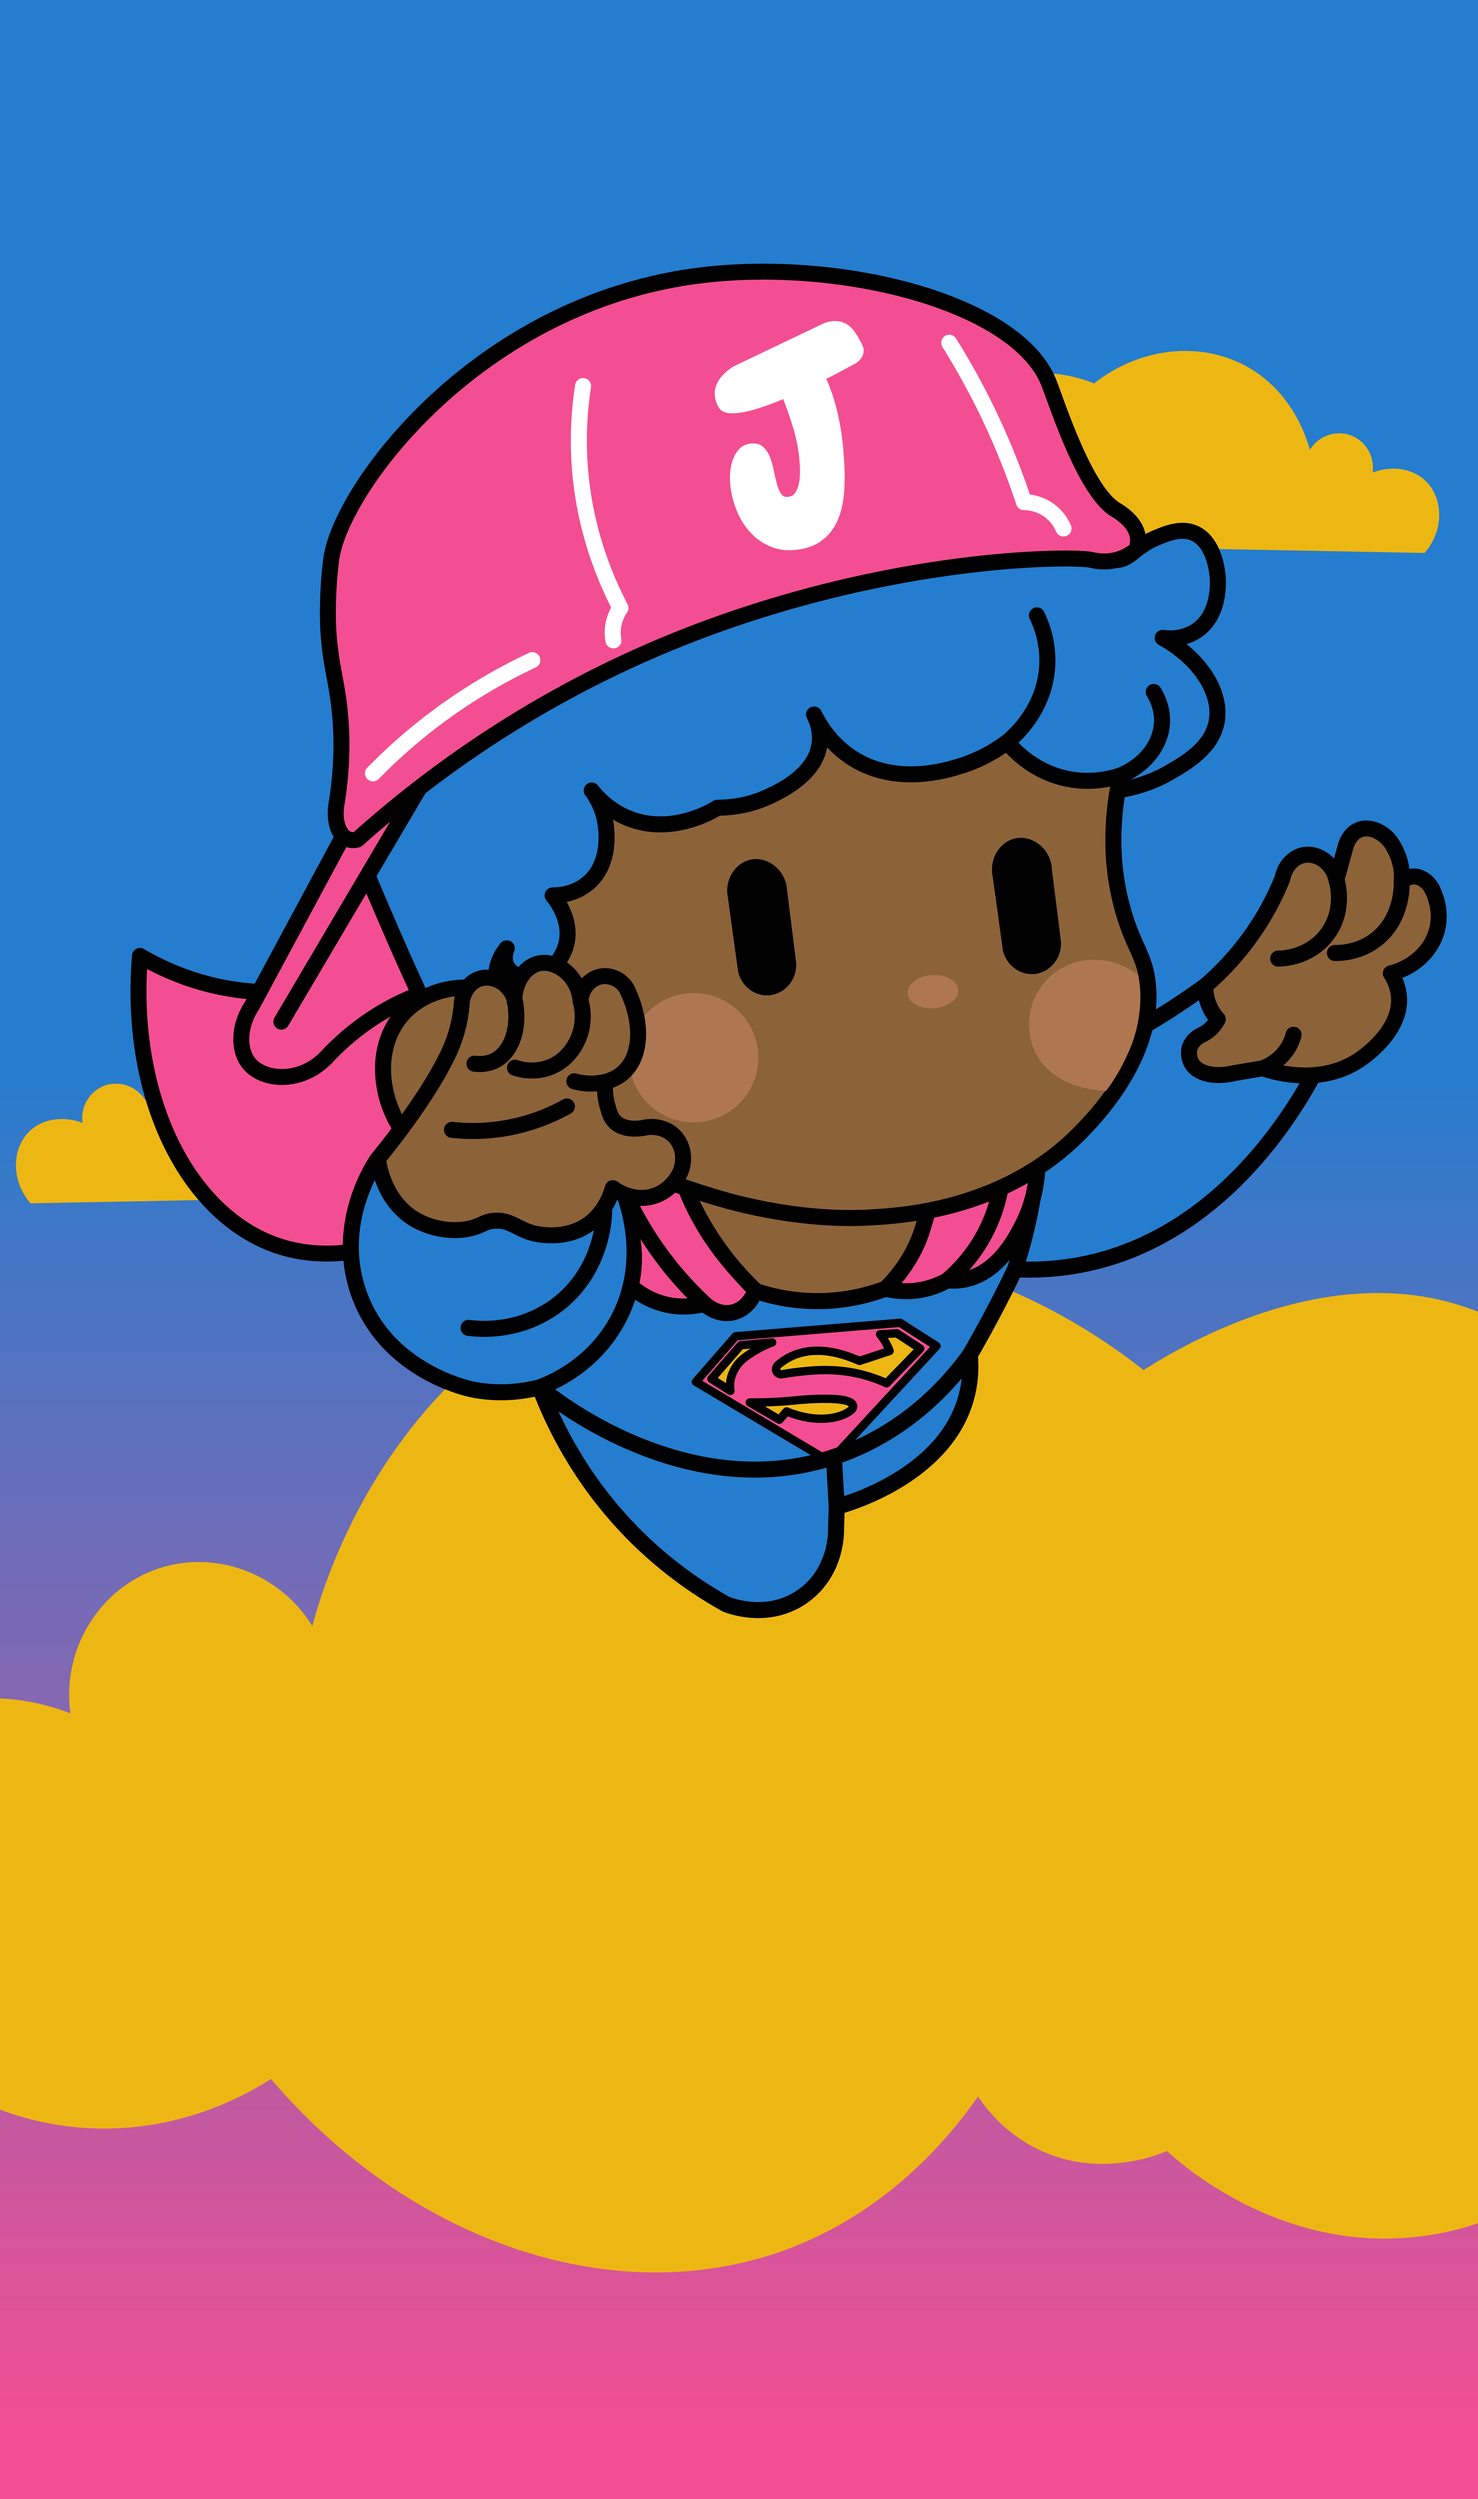
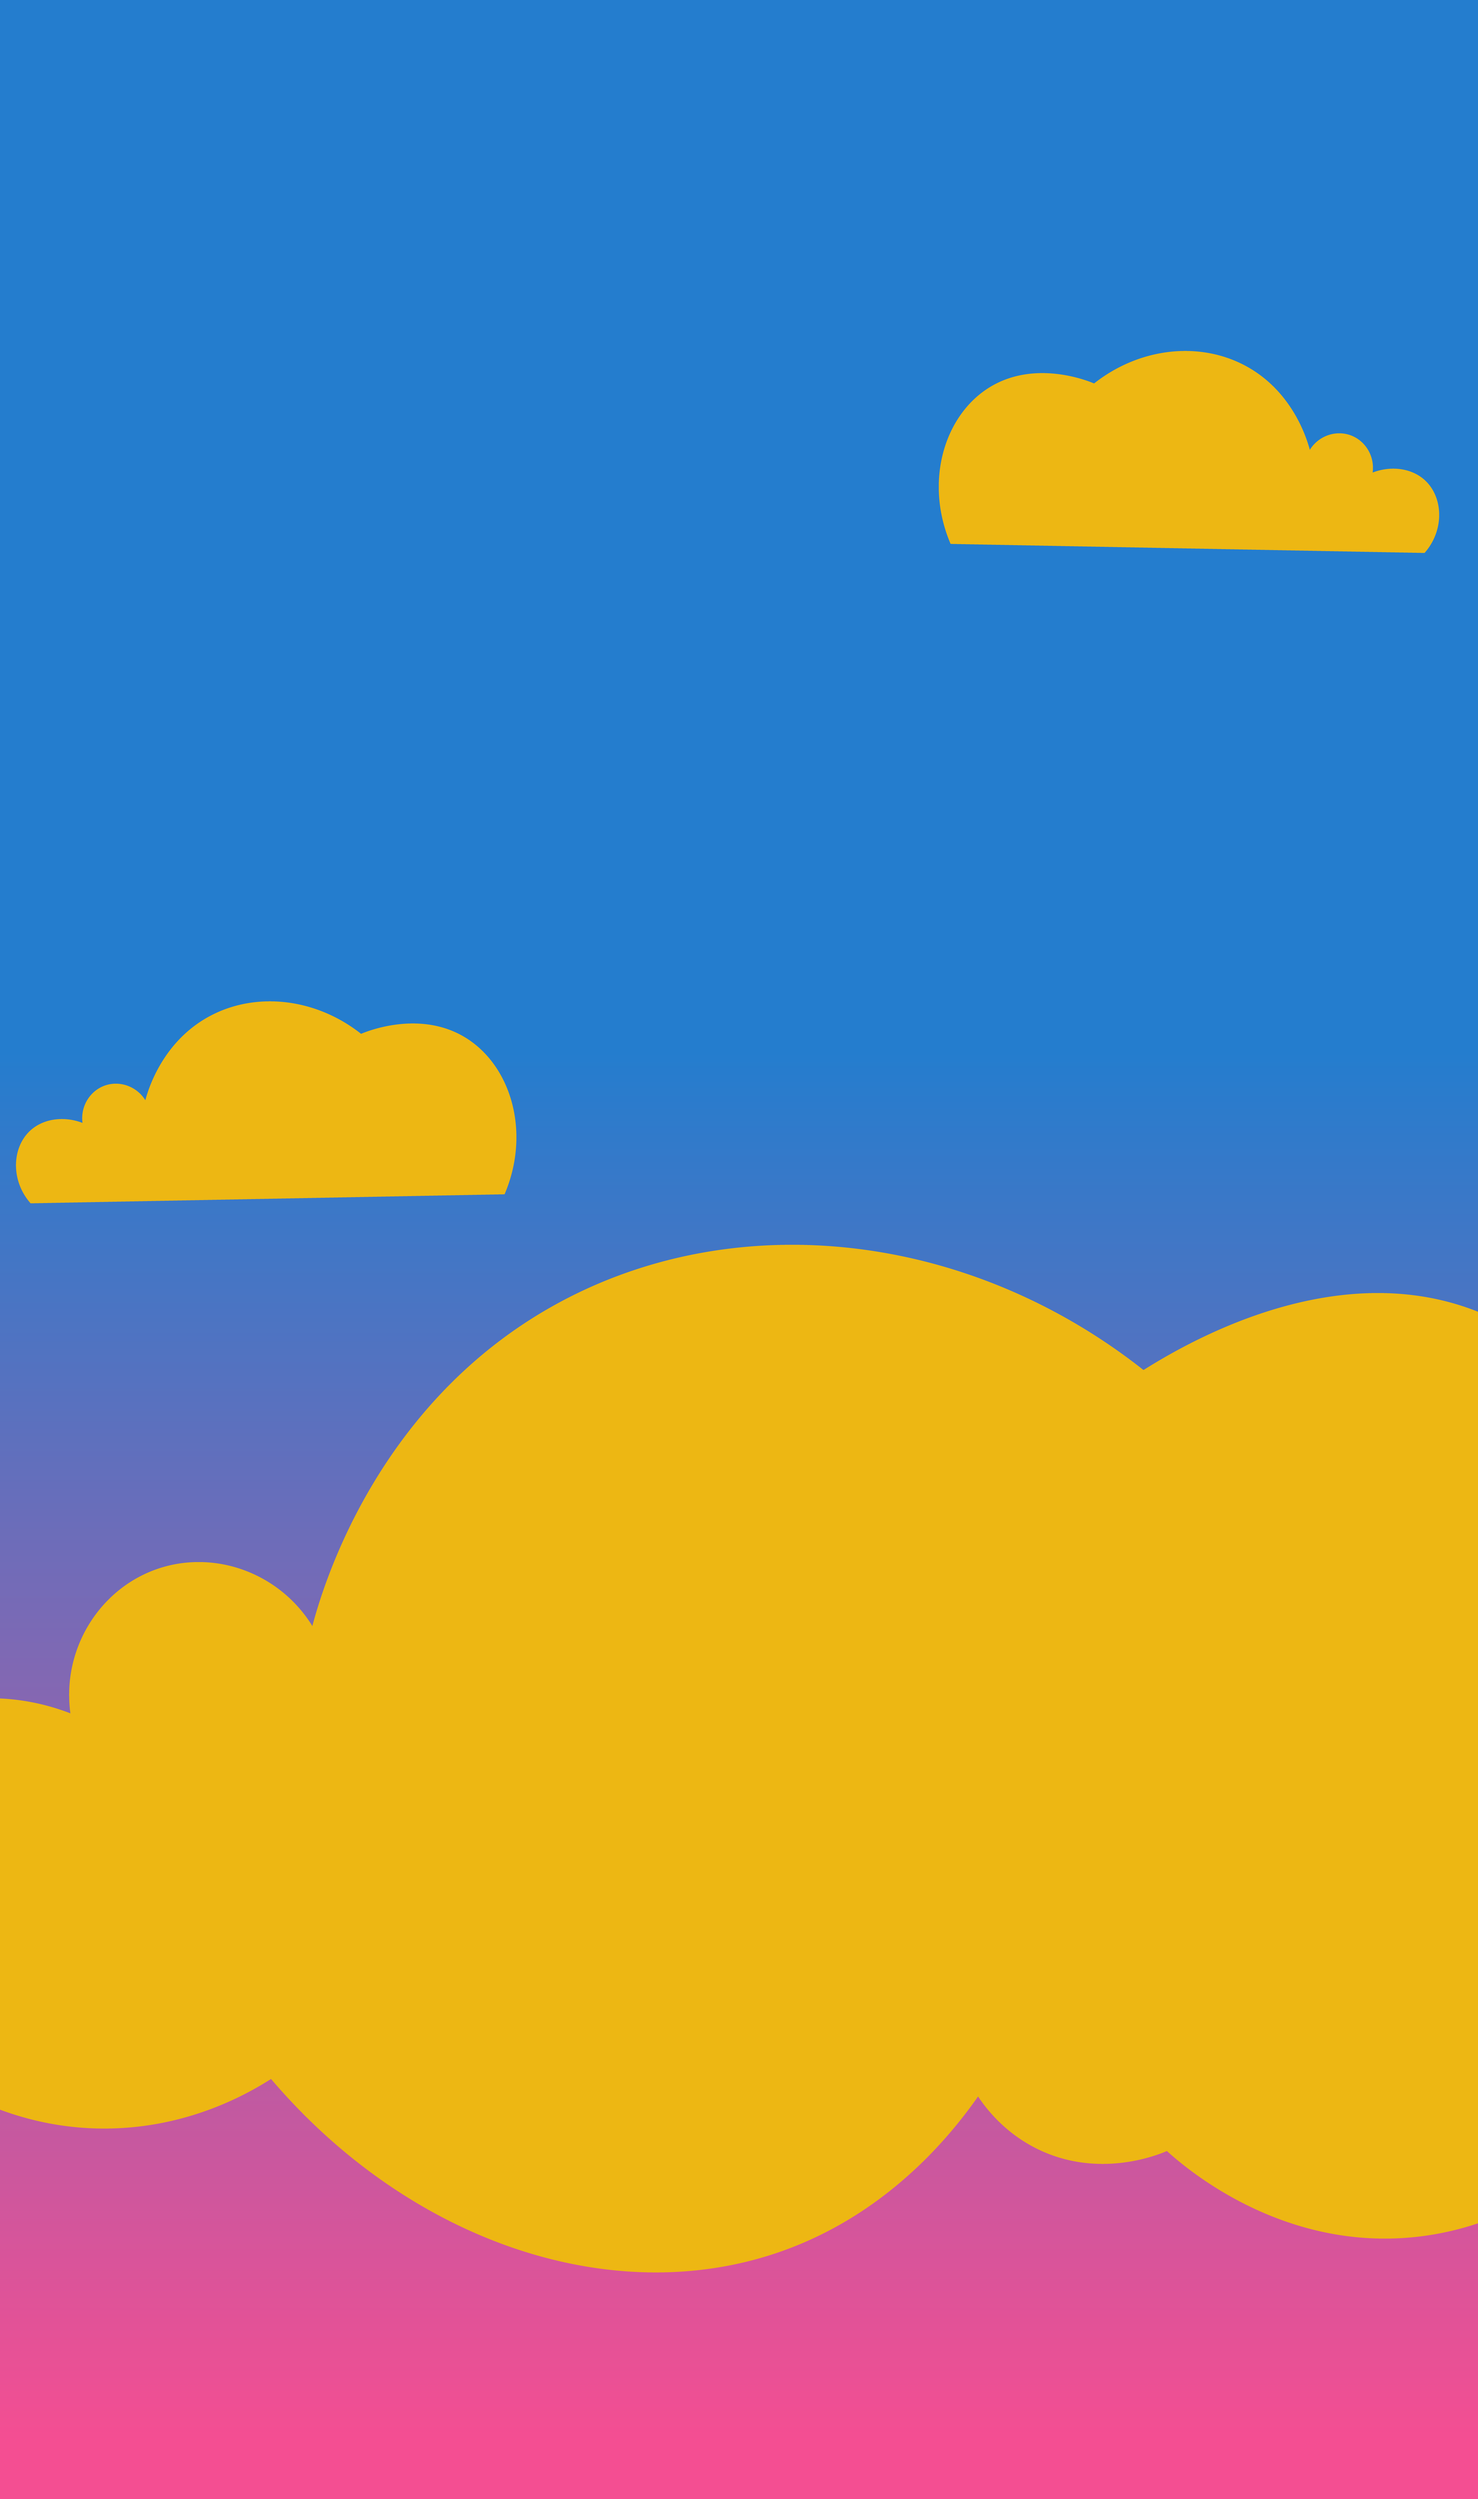
voa fia

Changed region(s): [[0.0622, 0.0937, 0.9951, 0.6556]]

diff --git a/script/script-pt.js b/script/script-pt.js
@@ -36,6 +36,13 @@ function displayQuestion() {
     
     const novaImagem = backgroundImg[currentQuestionIndex];
     document.getElementById('img').src= novaImagem;
+
+    if (document.getElementById('img').src.endsWith("img/illustration_04.png")) {
+      document.getElementById("superhero").classList.remove("hidden");
+    }
+    else{
+      document.getElementById("superhero").classList.add("hidden");
+    }
   } else {
     document.getElementById('result').innerHTML =
       `You scored ${score} out of ${questions.length}!`;

diff --git a/css/style.css b/css/style.css
@@ -14,6 +14,27 @@ body {
   font-family: var(--fredoka);
 }
 
+p{
+  font-size: 50px;
+}
+
+.hidden{
+  display: none;
+}
+
+#superhero{
+  width: 100vw;
+  animation: fly 1s ease-in;
+}
+
+@keyframes fly{
+  0% {transform: scale(0);}
+  20% {transform: scale(0) translateY(50%);}
+  80% {transform: scale(1);}
+  90% {transform: scale(0.95);}
+  100% {transform: scale(1);}
+}
+
 #img{
   width: 100vw;
   object-fit: cover;

diff --git a/html/pt.html b/html/pt.html
@@ -11,6 +11,8 @@
   <div class="gradient"></div>
   <h1>Você conhece João?</h1>
   <img id="img" alt="">
+
+  <img id="superhero" class="hidden" src="../img/illust_superhero.png" alt="">
   
   <div class="container">
     <h2 id="question"></h2>
